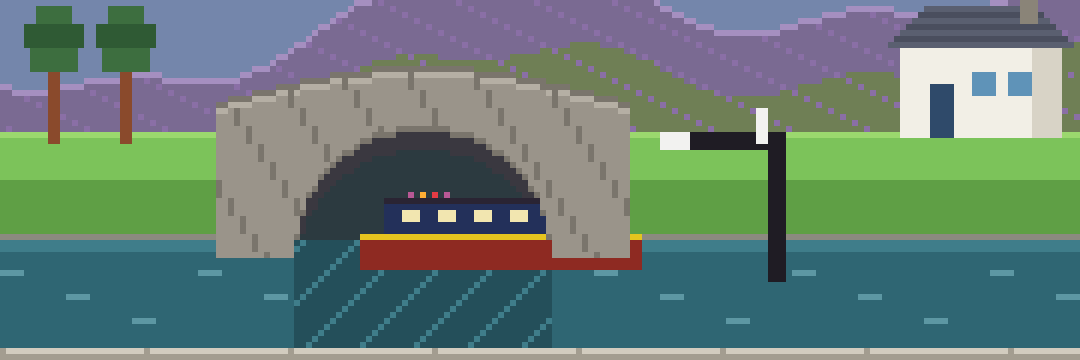
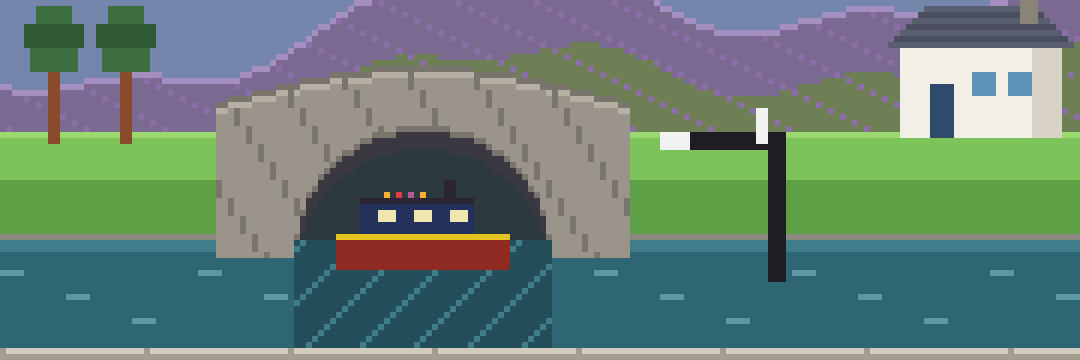
Keep the canal boat clear of the bridge arch
A shorter boat sits wholly inside the arch opening; the drawing script
now stops if a boat would touch the stonework. Rebuilt dist file.

Claude-Session: https://claude.ai/code/session_012JLRS1jhkpomJrfm7HDQX3

Changed region(s): [[0.3056, 0.55, 0.6111, 0.7639], [0.3972, 0.5194, 0.4278, 0.55]]

diff --git a/dist/HT-Dash.html b/dist/HT-Dash.html
@@ -17,7 +17,7 @@
 window.EMBED = {
[7 lines of base64/hex data omitted]

diff --git a/sprites/src/canal.py b/sprites/src/canal.py
@@ -148,14 +148,12 @@ def canal_mid():
         scots_pine(img, x, 113)
     cottage(img, 150, 112)
     stonework = bridge(img, 36, 104, 108)
-    # a boat passing under the bridge: drawn on a spare layer, then kept off the stonework
+    # a short boat passing under the bridge, sized and placed to sit wholly inside the arch
     boat = Image.new("RGBA", (W, H), (0, 0, 0, 0))
-    canal_boat(boat, 60, 46, "#8e2a22", "#e5c41f", "#23305a")
-    for y in range(H):
-        for x in range(W):
-            px = boat.getpixel((x, y))
-            if px[3] and (x, y) not in stonework:
-                img.putpixel((x, y), px)
+    canal_boat(boat, 56, 28, "#8e2a22", "#e5c41f", "#23305a")
+    clipped = [(x, y) for y in range(H) for x in range(W) if boat.getpixel((x, y))[3] and (x, y) in stonework]
+    assert not clipped, f"boat under the bridge touches the stonework at {clipped[:5]}"
+    img.alpha_composite(boat)
     lock_gate(img, 128)
     canal_boat(img, 224, 44, "#2f5d3f", "#e5c41f", "#b2383e")
     canal_boat(img, 276, 36, "#23305a", "#e8e0c8", "#47984a")
